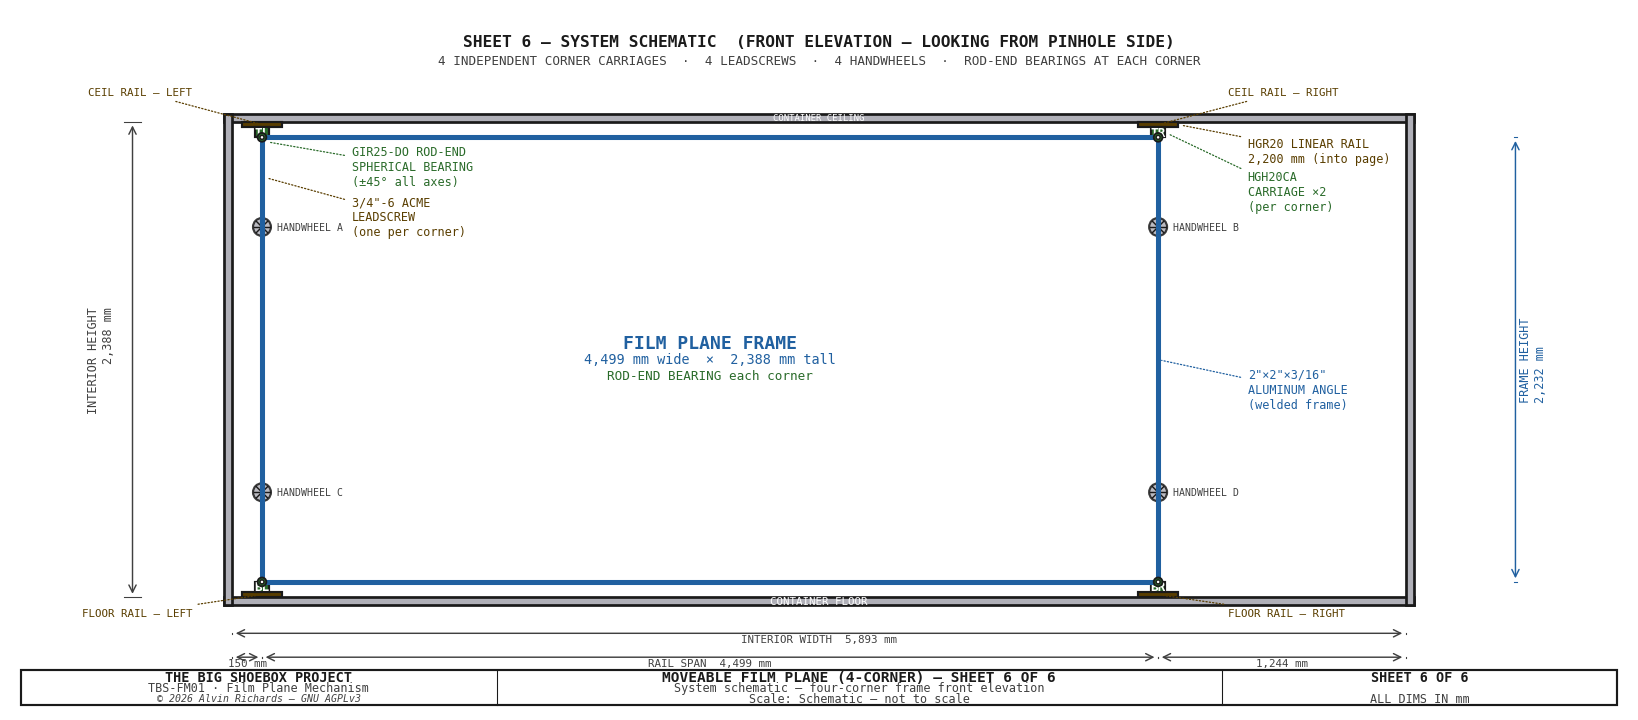
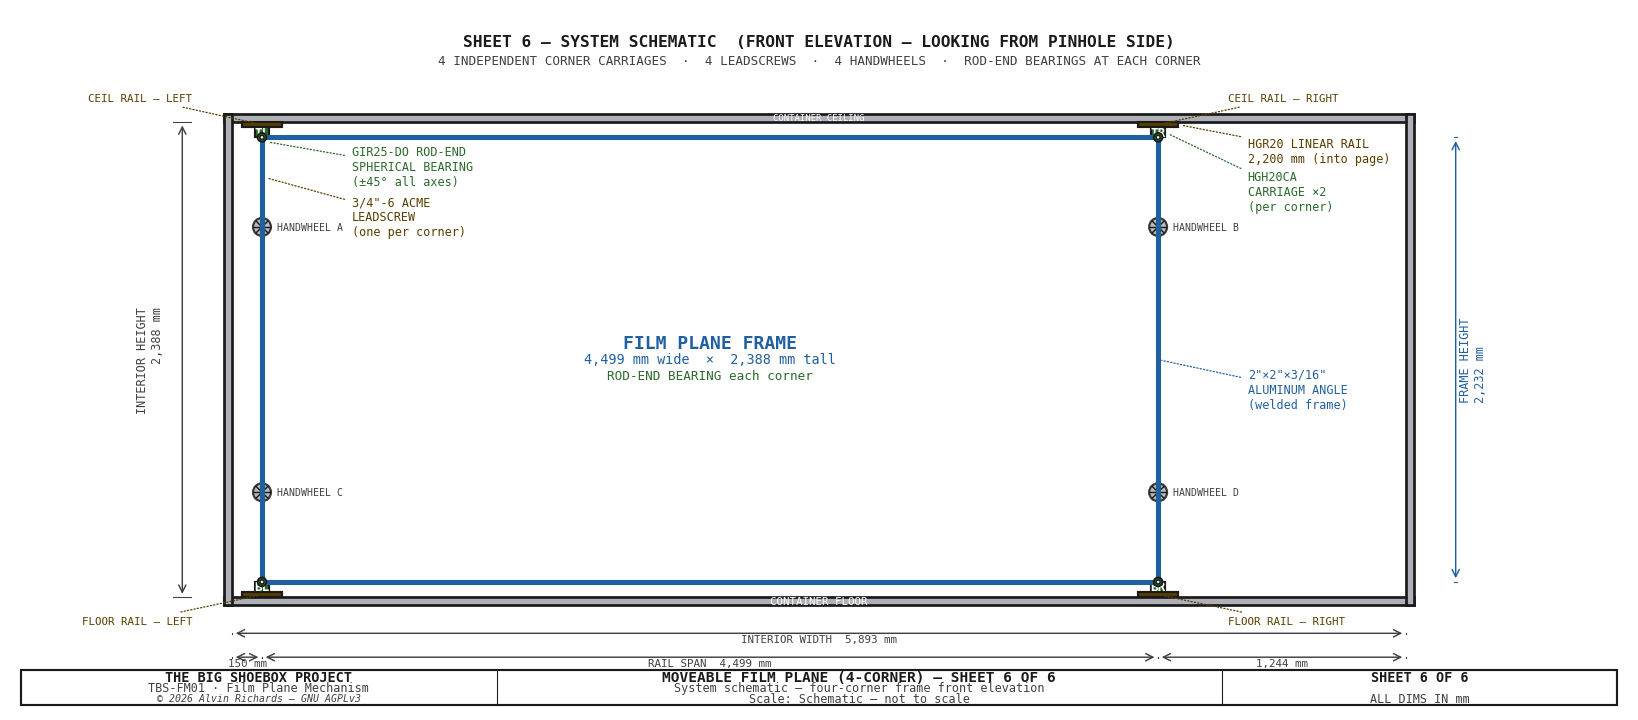
Tidy labels

diff --git a/generate_film_plane_mechanism.py b/generate_film_plane_mechanism.py
@@ -1540,7 +1540,7 @@ def sheet6():
                                 fc=RAIL, ec=WHITE, lw=1.2, zorder=5))
         ldr_x = rx - 350 if label == "LEFT" else rx + 350
         ldr_ha = "right" if label == "LEFT" else "left"
-        leader(ax, rx, FH - rail_h / 2, ldr_x, FH + 150,
+        leader(ax, rx, FH - rail_h / 2, ldr_x, FH + 120,
                f"CEIL RAIL — {label}", color=RAIL, ha=ldr_ha, fs=6, font=FONT)
 
     # Floor rails
@@ -1549,7 +1549,7 @@ def sheet6():
                                 fc=RAIL, ec=WHITE, lw=1.2, zorder=5))
         ldr_x = rx - 350 if label == "LEFT" else rx + 350
         ldr_ha = "right" if label == "LEFT" else "left"
-        leader(ax, rx, rail_h / 2, ldr_x, -80,
+        leader(ax, rx, rail_h / 2, ldr_x, -120,
                f"FLOOR RAIL — {label}", color=RAIL, ha=ldr_ha, fs=6, font=FONT)
 
     # ── Corner carriages + leadscrews + handwheels ────────────────────────────
@@ -1716,11 +1716,11 @@ def sheet6():
                above=False, font=FONT)
 
     # Container height (left side)
-    draw_dim_v(ax, -500, 0, FH,
+    draw_dim_v(ax, -250, 0, FH,
                f"INTERIOR HEIGHT\n{H:,} mm", offset=150, color=DIM, fs=6.5, font=FONT)
 
     # Frame height (right side)
-    draw_dim_v(ax, FW + 550, fp_bot, fp_top,
+    draw_dim_v(ax, FW + 250, fp_bot, fp_top,
                f"FRAME HEIGHT\n{fp_top - fp_bot:,} mm", offset=30, color=C_FLAT,
                fs=6.5, right=True, font=FONT)
 
